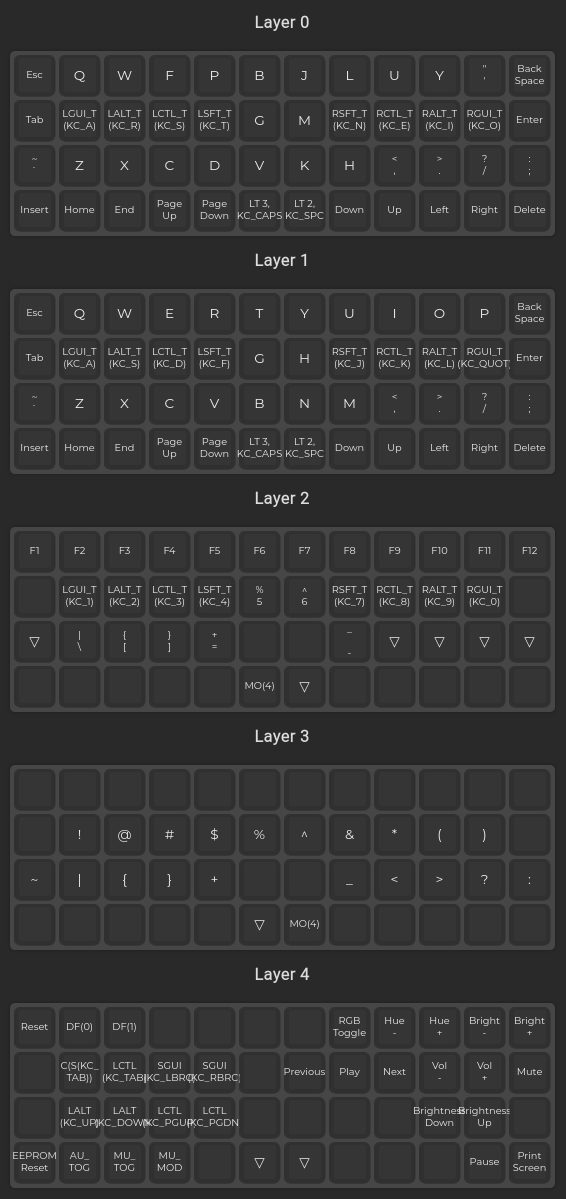
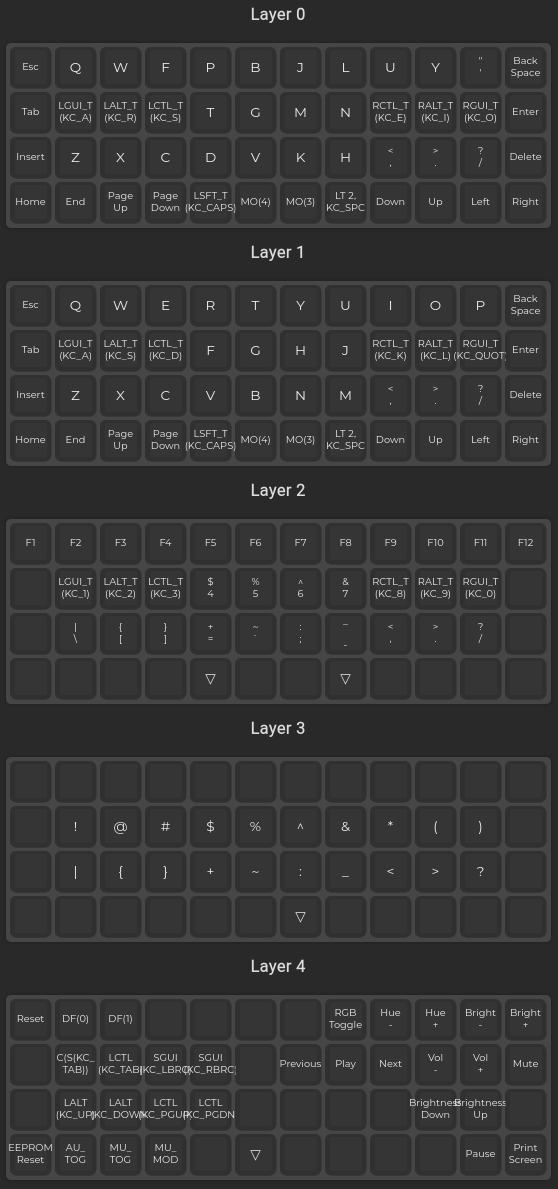
Spread out thumb keys

diff --git a/keymap.c b/keymap.c
@@ -7,9 +7,9 @@
  */
 
 const uint16_t PROGMEM keymaps[][MATRIX_ROWS][MATRIX_COLS] = {
-	[0] = LAYOUT_ortho_4x12(KC_ESC, KC_Q, KC_W, KC_F, KC_P, KC_B, KC_J, KC_L, KC_U, KC_Y, KC_QUOT, KC_BSPC, KC_TAB, LGUI_T(KC_A), LALT_T(KC_R), LCTL_T(KC_S), LSFT_T(KC_T), KC_G, KC_M, RSFT_T(KC_N), RCTL_T(KC_E), RALT_T(KC_I), RGUI_T(KC_O), KC_ENT, KC_GRV, KC_Z, KC_X, KC_C, KC_D, KC_V, KC_K, KC_H, KC_COMM, KC_DOT, KC_SLSH, KC_SCLN, KC_INS, KC_HOME, KC_END, KC_PGUP, KC_PGDN, LT(3,KC_CAPS), LT(2,KC_SPC), KC_DOWN, KC_UP, KC_LEFT, KC_RGHT, KC_DEL),
-	[1] = LAYOUT_ortho_4x12(KC_ESC, KC_Q, KC_W, KC_E, KC_R, KC_T, KC_Y, KC_U, KC_I, KC_O, KC_P, KC_BSPC, KC_TAB, LGUI_T(KC_A), LALT_T(KC_S), LCTL_T(KC_D), LSFT_T(KC_F), KC_G, KC_H, RSFT_T(KC_J), RCTL_T(KC_K), RALT_T(KC_L), RGUI_T(KC_QUOT), KC_ENT, KC_GRV, KC_Z, KC_X, KC_C, KC_V, KC_B, KC_N, KC_M, KC_COMM, KC_DOT, KC_SLSH, KC_SCLN, KC_INS, KC_HOME, KC_END, KC_PGUP, KC_PGDN, LT(3,KC_CAPS), LT(2,KC_SPC), KC_DOWN, KC_UP, KC_LEFT, KC_RGHT, KC_DEL),
-	[2] = LAYOUT_ortho_4x12(KC_F1, KC_F2, KC_F3, KC_F4, KC_F5, KC_F6, KC_F7, KC_F8, KC_F9, KC_F10, KC_F11, KC_F12, KC_NO, LGUI_T(KC_1), LALT_T(KC_2), LCTL_T(KC_3), LSFT_T(KC_4), KC_5, KC_6, RSFT_T(KC_7), RCTL_T(KC_8), RALT_T(KC_9), RGUI_T(KC_0), KC_NO, KC_TRNS, KC_BSLS, KC_LBRC, KC_RBRC, KC_EQL, KC_NO, KC_NO, KC_MINS, KC_TRNS, KC_TRNS, KC_TRNS, KC_TRNS, KC_NO, KC_NO, KC_NO, KC_NO, KC_NO, MO(4), KC_TRNS, KC_NO, KC_NO, KC_NO, KC_NO, KC_NO),
-	[3] = LAYOUT_ortho_4x12(KC_NO, KC_NO, KC_NO, KC_NO, KC_NO, KC_NO, KC_NO, KC_NO, KC_NO, KC_NO, KC_NO, KC_NO, KC_NO, KC_EXLM, KC_AT, KC_HASH, KC_DLR, KC_PERC, KC_CIRC, KC_AMPR, KC_ASTR, KC_LPRN, KC_RPRN, KC_NO, KC_TILD, KC_PIPE, KC_LCBR, KC_RCBR, KC_PLUS, KC_NO, KC_NO, KC_UNDS, KC_LT, KC_GT, KC_QUES, KC_COLN, KC_NO, KC_NO, KC_NO, KC_NO, KC_NO, KC_TRNS, MO(4), KC_NO, KC_NO, KC_NO, KC_NO, KC_NO),
-	[4] = LAYOUT_ortho_4x12(RESET, DF(0), DF(1), KC_NO, KC_NO, KC_NO, KC_NO, RGB_TOG, RGB_HUD, RGB_HUI, RGB_VAD, RGB_VAI, KC_NO, C(S(KC_TAB)), LCTL(KC_TAB), SGUI(KC_LBRC), SGUI(KC_RBRC), KC_NO, KC_MPRV, KC_MPLY, KC_MNXT, KC_VOLD, KC_VOLU, KC_MUTE, KC_NO, LALT(KC_UP), LALT(KC_DOWN), LCTL(KC_PGUP), LCTL(KC_PGDN), KC_NO, KC_NO, KC_NO, KC_NO, KC_BRID, KC_BRIU, KC_NO, EEP_RST, AU_TOG, MU_TOG, MU_MOD, KC_NO, KC_TRNS, KC_TRNS, KC_NO, KC_NO, KC_NO, KC_PAUS, KC_PSCR)
+	[0] = LAYOUT_ortho_4x12(KC_ESC, KC_Q, KC_W, KC_F, KC_P, KC_B, KC_J, KC_L, KC_U, KC_Y, KC_QUOT, KC_BSPC, KC_TAB, LGUI_T(KC_A), LALT_T(KC_R), LCTL_T(KC_S), KC_T, KC_G, KC_M, KC_N, RCTL_T(KC_E), RALT_T(KC_I), RGUI_T(KC_O), KC_ENT, KC_INS, KC_Z, KC_X, KC_C, KC_D, KC_V, KC_K, KC_H, KC_COMM, KC_DOT, KC_SLSH, KC_DEL, KC_HOME, KC_END, KC_PGUP, KC_PGDN, LSFT_T(KC_CAPS), MO(4), MO(3), LT(2,KC_SPC), KC_DOWN, KC_UP, KC_LEFT, KC_RGHT),
+	[1] = LAYOUT_ortho_4x12(KC_ESC, KC_Q, KC_W, KC_E, KC_R, KC_T, KC_Y, KC_U, KC_I, KC_O, KC_P, KC_BSPC, KC_TAB, LGUI_T(KC_A), LALT_T(KC_S), LCTL_T(KC_D), KC_F, KC_G, KC_H, KC_J, RCTL_T(KC_K), RALT_T(KC_L), RGUI_T(KC_QUOT), KC_ENT, KC_INS, KC_Z, KC_X, KC_C, KC_V, KC_B, KC_N, KC_M, KC_COMM, KC_DOT, KC_SLSH, KC_DEL, KC_HOME, KC_END, KC_PGUP, KC_PGDN, LSFT_T(KC_CAPS), MO(4), MO(3), LT(2,KC_SPC), KC_DOWN, KC_UP, KC_LEFT, KC_RGHT),
+	[2] = LAYOUT_ortho_4x12(KC_F1, KC_F2, KC_F3, KC_F4, KC_F5, KC_F6, KC_F7, KC_F8, KC_F9, KC_F10, KC_F11, KC_F12, KC_NO, LGUI_T(KC_1), LALT_T(KC_2), LCTL_T(KC_3), KC_4, KC_5, KC_6, KC_7, RCTL_T(KC_8), RALT_T(KC_9), RGUI_T(KC_0), KC_NO, KC_NO, KC_BSLS, KC_LBRC, KC_RBRC, KC_EQL, KC_GRV, KC_SCLN, KC_MINS, KC_COMM, KC_DOT, KC_SLSH, KC_NO, KC_NO, KC_NO, KC_NO, KC_NO, KC_TRNS, KC_NO, KC_NO, KC_TRNS, KC_NO, KC_NO, KC_NO, KC_NO),
+	[3] = LAYOUT_ortho_4x12(KC_NO, KC_NO, KC_NO, KC_NO, KC_NO, KC_NO, KC_NO, KC_NO, KC_NO, KC_NO, KC_NO, KC_NO, KC_NO, KC_EXLM, KC_AT, KC_HASH, KC_DLR, KC_PERC, KC_CIRC, KC_AMPR, KC_ASTR, KC_LPRN, KC_RPRN, KC_NO, KC_NO, KC_PIPE, KC_LCBR, KC_RCBR, KC_PLUS, KC_TILD, KC_COLN, KC_UNDS, KC_LT, KC_GT, KC_QUES, KC_NO, KC_NO, KC_NO, KC_NO, KC_NO, KC_NO, KC_NO, KC_TRNS, KC_NO, KC_NO, KC_NO, KC_NO, KC_NO),
+	[4] = LAYOUT_ortho_4x12(RESET, DF(0), DF(1), KC_NO, KC_NO, KC_NO, KC_NO, RGB_TOG, RGB_HUD, RGB_HUI, RGB_VAD, RGB_VAI, KC_NO, C(S(KC_TAB)), LCTL(KC_TAB), SGUI(KC_LBRC), SGUI(KC_RBRC), KC_NO, KC_MPRV, KC_MPLY, KC_MNXT, KC_VOLD, KC_VOLU, KC_MUTE, KC_NO, LALT(KC_UP), LALT(KC_DOWN), LCTL(KC_PGUP), LCTL(KC_PGDN), KC_NO, KC_NO, KC_NO, KC_NO, KC_BRID, KC_BRIU, KC_NO, EEP_RST, AU_TOG, MU_TOG, MU_MOD, KC_NO, KC_TRNS, KC_NO, KC_NO, KC_NO, KC_NO, KC_PAUS, KC_PSCR)
 };
